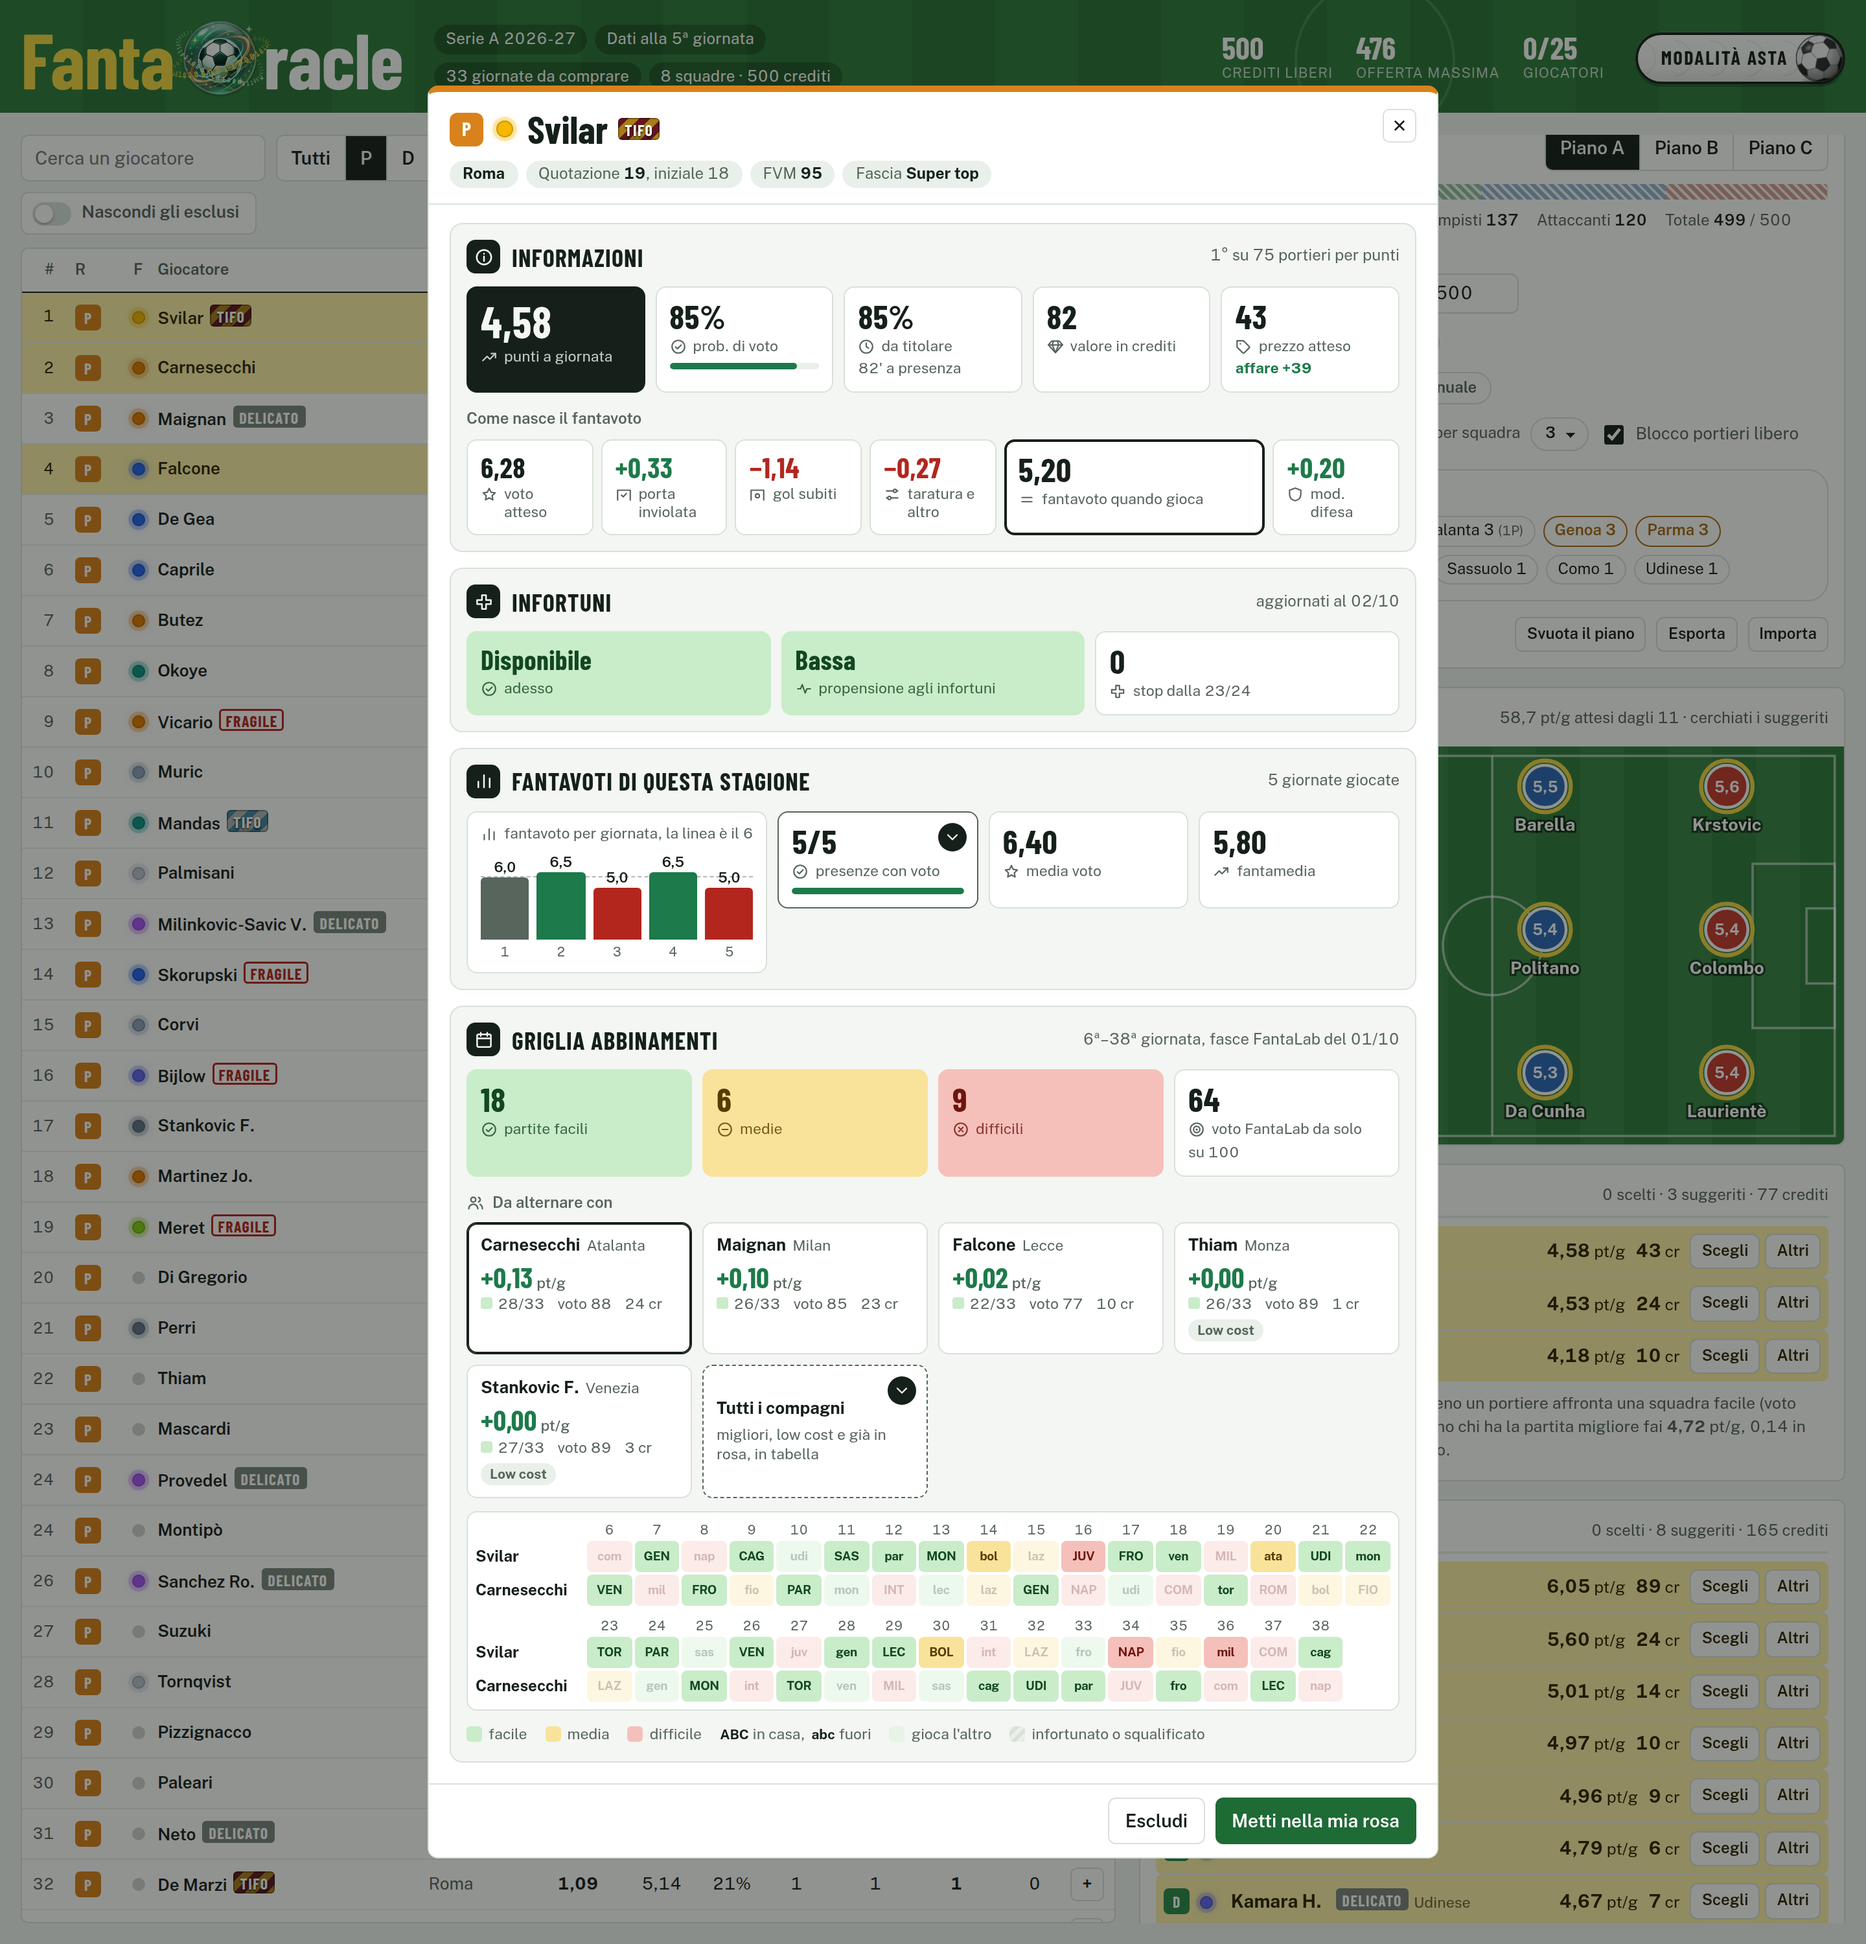
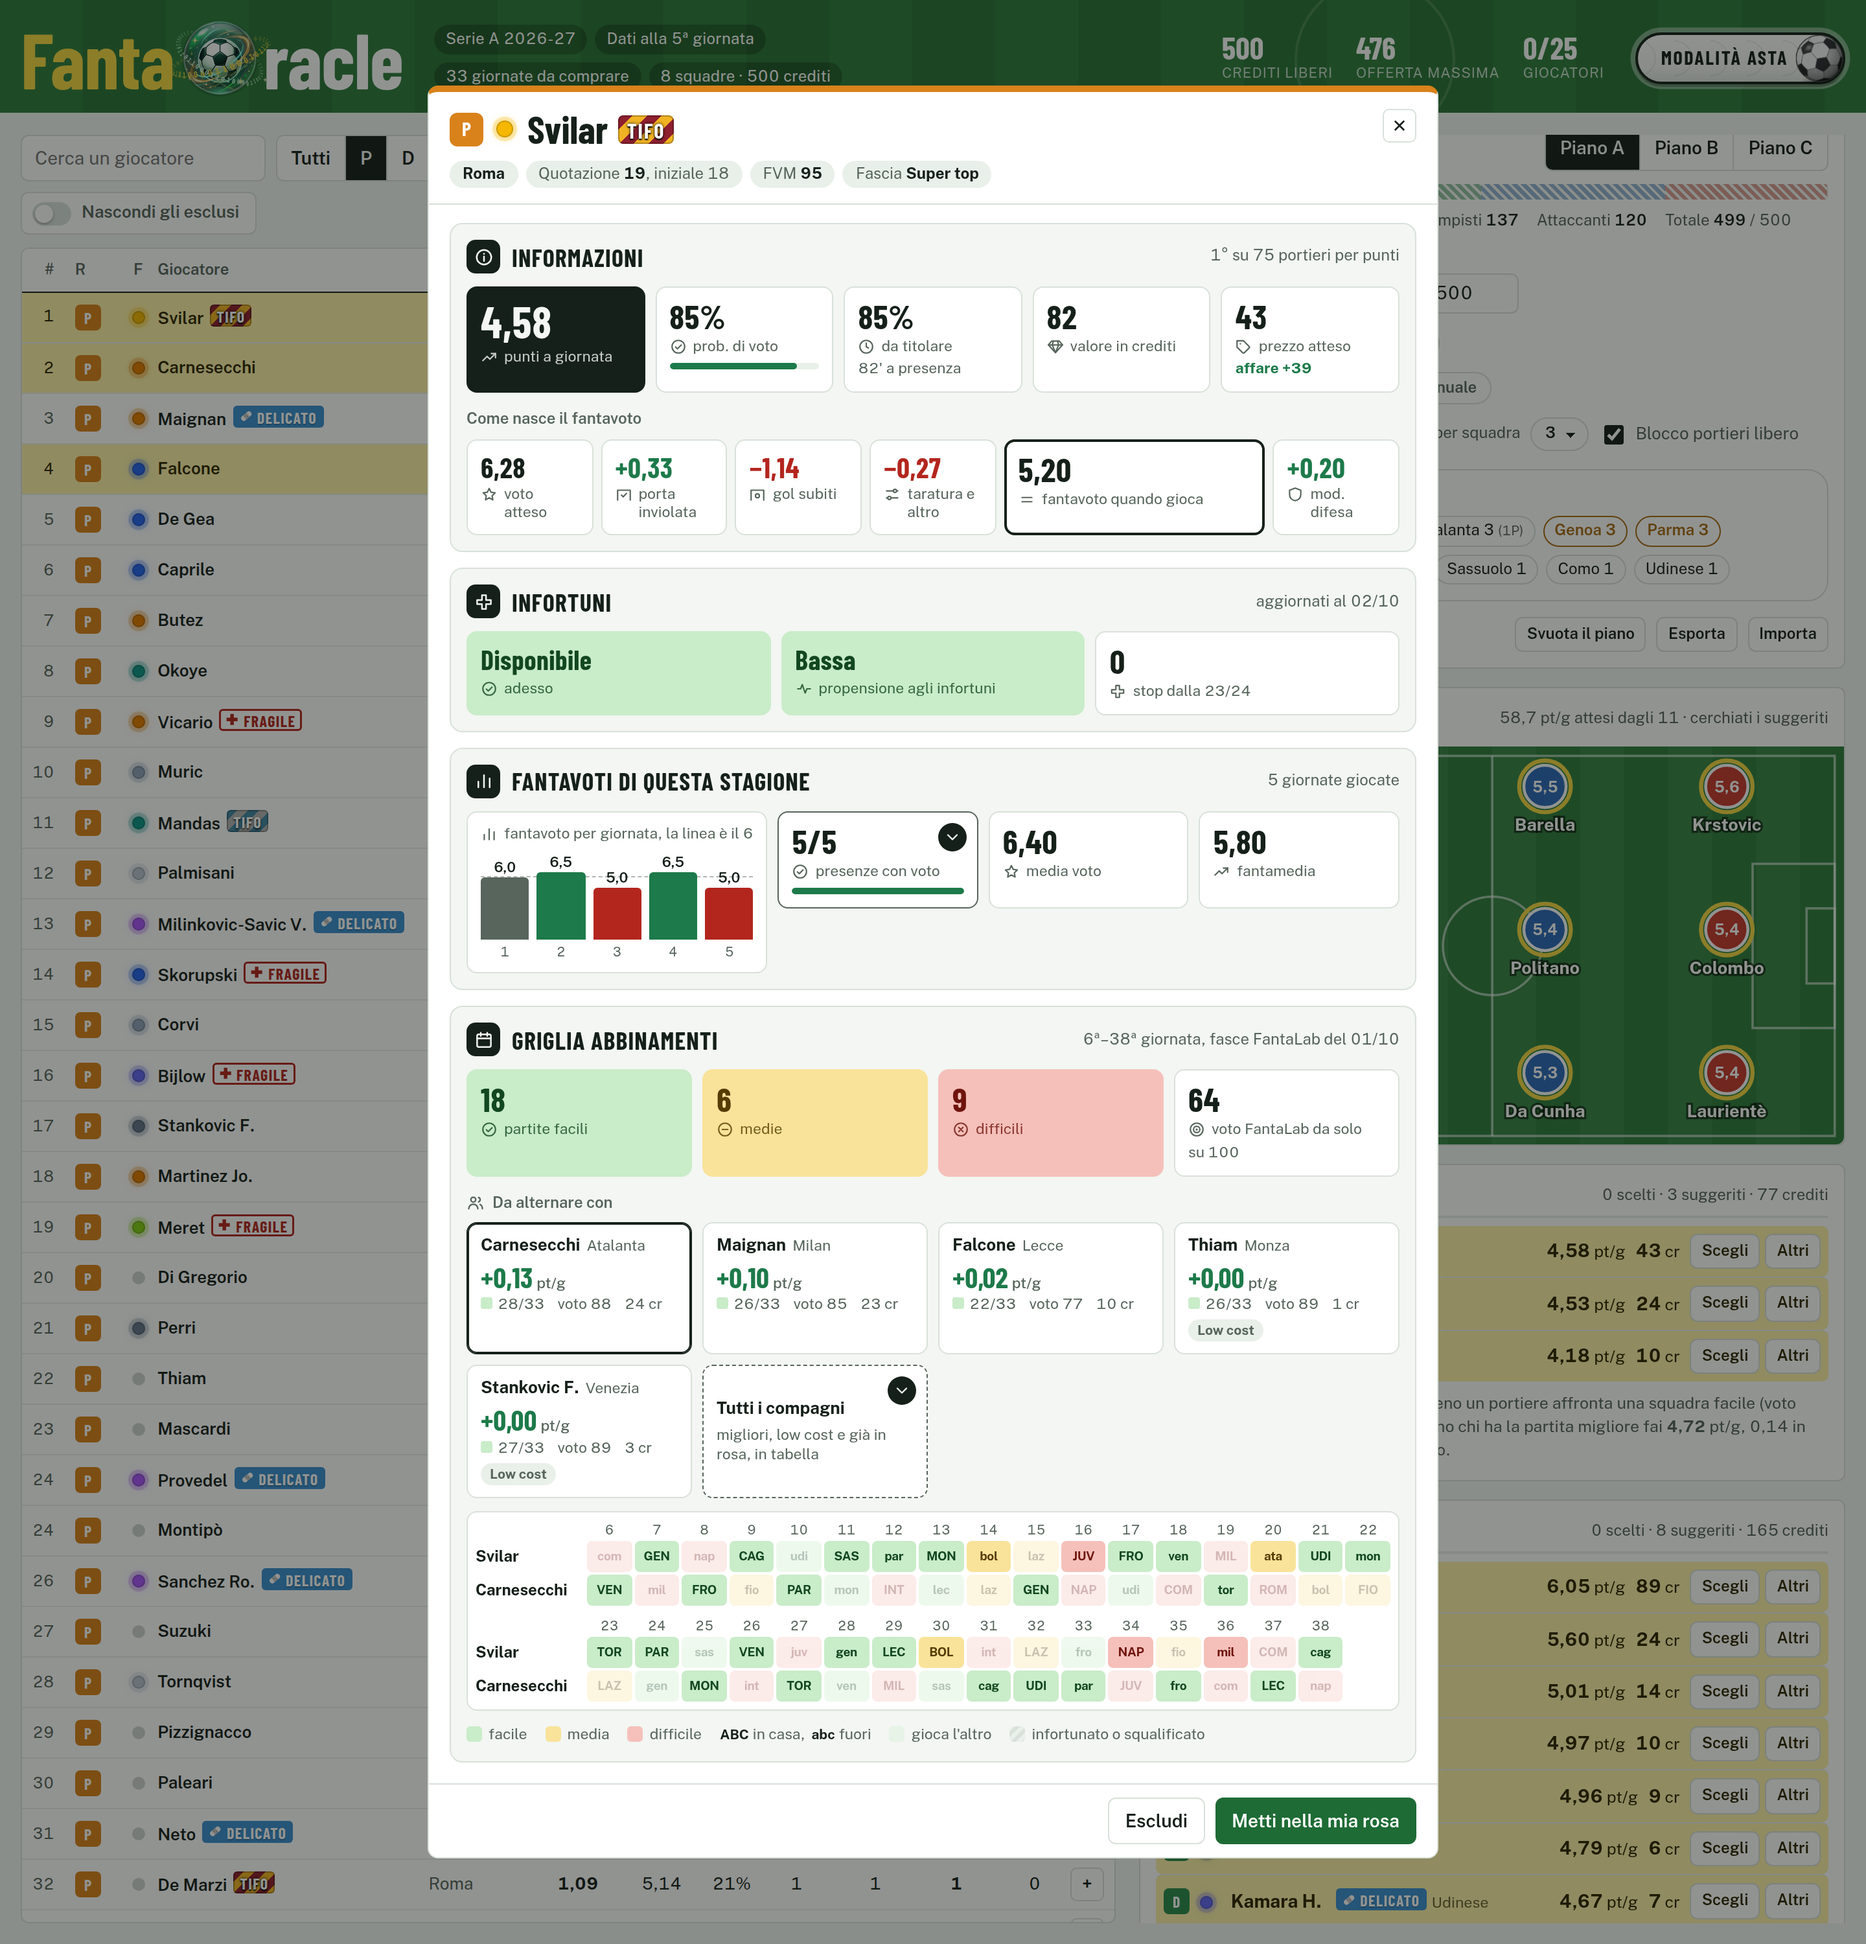
Etichette: velo solo dove serve, croce su FRAGILE, cerotto e celeste su DELICATO, piu' grandi nella scheda
Il velo scuro sulle strisce del tifo ora c'e' solo se una striscia e' troppo
chiara per la scritta bianca (contrasto WCAG sotto 1,7: bianco, giallo); Roma,
Inter, Milan e le altre tengono i colori pieni.
FRAGILE ha una croce rossa davanti, DELICATO un cerotto bianco su fondo celeste
al posto del grigio. Le misure delle etichette sono in em: nella scheda del
giocatore crescono a 16px insieme al nome.

Claude-Session: https://claude.ai/code/session_01FBeLdg3Zut88sEP1f7QNub

diff --git a/web/tool.css b/web/tool.css
@@ -233,18 +233,23 @@ td.big { font-weight: 700; }
 /* Etichette come bollini da tabellone: font condensato, pieni. Chi e' fuori ha la chiave scura
    (OUT, SQ) e accanto il rientro; il tifo porta le strisce coi colori della squadra (--t1, --t2). */
 .tag { display: inline-flex; align-items: center; font: 700 12px/1 var(--font-display); letter-spacing: 0.06em; text-transform: uppercase;
-  padding: 3px 5px 2px; border-radius: 3px; margin-left: 5px; vertical-align: 1px; white-space: nowrap; overflow: hidden;
+  padding: 0.25em 0.42em 0.17em; border-radius: 0.25em; margin-left: 5px; vertical-align: 1px; white-space: nowrap; overflow: hidden;
   color: var(--ink-2); box-shadow: inset 0 0 0 1.5px currentColor; }
-.tag i { font-style: normal; margin: -3px 4px -2px -5px; padding: 3px 5px 2px; background: rgb(0 0 0 / 0.24); }
+.tag i { font-style: normal; margin: -0.25em 0.33em -0.17em -0.42em; padding: 0.25em 0.42em 0.17em; background: rgb(0 0 0 / 0.24); }
+.tag .segno { width: 0.85em; height: 0.85em; margin: -0.1em 0.3em 0 0; flex: none; fill: currentColor; }
+.tag.fragile .segno { fill: var(--bad); }
 .tag.rig { color: #fff; background: #2d68b8; box-shadow: none; }
-/* un velo scuro sulle strisce: le bianche (Lazio, Juve, Napoli...) restano chiare ma la scritta si legge */
-.tag.tifo { color: #fff; background: linear-gradient(rgb(0 0 0 / 0.3), rgb(0 0 0 / 0.3)), repeating-linear-gradient(135deg, var(--t1) 0 6px, var(--t2) 6px 12px);
-  box-shadow: inset 0 0 0 1px rgb(0 0 0 / 0.3); text-shadow: 0 1px 1.5px rgb(0 0 0 / 0.9); }
+/* le strisce coi colori pieni; il velo scuro solo dove una striscia e' troppo chiara per la scritta
+   bianca (classe .velo, decisa in tag() dal contrasto: Lazio, Juve, Napoli, Lecce...) */
+.tag.tifo { color: #fff; background: repeating-linear-gradient(135deg, var(--t1) 0 0.5em, var(--t2) 0.5em 1em);
+  box-shadow: inset 0 0 0 1px rgb(0 0 0 / 0.25); text-shadow: 0 0 2px rgb(0 0 0 / 0.9), 0 1px 1px #000; }
+.tag.tifo.velo { background: linear-gradient(rgb(0 0 0 / 0.3), rgb(0 0 0 / 0.3)), repeating-linear-gradient(135deg, var(--t1) 0 0.5em, var(--t2) 0.5em 1em);
+  text-shadow: 0 1px 1.5px rgb(0 0 0 / 0.9); }
 .tag.uno { color: inherit; opacity: 0.8; }
 .tag.out { color: #fff; background: #c5302a; box-shadow: none; cursor: help; }
 .tag.dubbio, .tag.diff { color: #3a2a00; background: #f7c948; box-shadow: none; cursor: help; }
 .tag.fragile { color: var(--bad); cursor: help; }
-.tag.rischio { color: #fff; background: #7a867e; box-shadow: none; cursor: help; }
+.tag.rischio { color: #fff; background: #3b8fd0; box-shadow: none; cursor: help; text-shadow: 0 1px 1px rgb(0 0 0 / 0.25); }
 td.act { display: flex; gap: 4px; justify-content: flex-end; }
 .ic { width: 26px; height: 26px; display: inline-grid; place-items: center; border: 1px solid var(--rule); background: var(--sheet); border-radius: 5px; font-weight: 700; line-height: 1; }
 .ic:hover { border-color: var(--ink); }
@@ -364,7 +369,8 @@ table.compagni button[aria-pressed="true"] { background: var(--ink); color: var(
 .sch-chi { min-width: 0; }
 :is(.scheda, .chiamato) h3 { font-size: 30px; display: flex; flex-wrap: wrap; align-items: center; gap: 4px 8px; }
 :is(.scheda, .chiamato) h3 .role { width: 26px; height: 26px; font-size: 15px; border-radius: 6px; }
-:is(.scheda, .chiamato) h3 .tag { margin-left: 0; }
+/* nella scheda il nome e' a 30px: le etichette crescono con lui (le misure sono in em) */
+:is(.scheda, .chiamato) h3 .tag { margin-left: 0; font-size: 16px; }
 :is(.scheda, .chiamato) h3 .fd { margin: 0 3px 0 2px; vertical-align: 0; }
 .sch-meta { display: flex; flex-wrap: wrap; align-items: center; gap: 6px; margin-top: 8px; }
 .sch-meta .mt { font-size: 12px; line-height: 1.45; padding: 2px 10px; border-radius: 999px; background: var(--tint); color: var(--ink-2); white-space: nowrap; }
@@ -829,7 +835,7 @@ h3 .fd { width: 13px; height: 13px; margin: 0 8px 0 4px; vertical-align: 5px; }
   .boxes.merc-box.gen { grid-template-columns: repeat(3, minmax(0, 1fr)); }
   .merc-box .box.ora { grid-column: 1 / -1; }
   table.sq td, table.sq th { padding: 6px 4px; }
-  table.sq .tag { margin-left: 3px; padding: 1px 3px; }
+  table.sq .tag { margin-left: 3px; }
   .occ { grid-template-columns: 22px minmax(0, 1fr) auto; }
   .occ .num { grid-column: 2 / -1; grid-row: 2; text-align: left; white-space: normal; }
 }

diff --git a/web/tool.js b/web/tool.js
@@ -622,6 +622,13 @@ function titoloFr(g) {
     `; ~${fmt(f.gg, 0)} giorni e ~${fmt(f.pp, 0)} partite perse a stagione`;
 }
 
+// I segni dentro le etichette della propensione: una croce rossa per i fragili, un cerotto
+// bianco per i delicati. Prendono il colore del testo (currentColor) e la sua altezza.
+const SEGNO = {
+  croce: '<svg class="segno" viewBox="0 0 12 12" aria-hidden="true"><path d="M4.4 1h3.2v3.4H11v3.2H7.6V11H4.4V7.6H1V4.4h3.4z"/></svg>',
+  cerotto: '<svg class="segno" viewBox="0 0 12 12" aria-hidden="true"><g transform="rotate(-40 6 6)"><rect x="0.6" y="3.6" width="10.8" height="4.8" rx="2.4"/>' +
+    '<rect x="4" y="3.6" width="4" height="4.8" fill="rgb(0 0 0 / 0.22)"/><circle cx="5.2" cy="5.2" r=".45" fill="rgb(0 0 0 / 0.35)"/><circle cx="6.8" cy="6.8" r=".45" fill="rgb(0 0 0 / 0.35)"/></g></svg>',
+};
 function tagSalute(g, senzaDubbio = false) {
   let t = "";
   if (g.inf && !(senzaDubbio && !fuori(g) && g.inf.t !== "diffidato")) {
@@ -634,8 +641,8 @@ function tagSalute(g, senzaDubbio = false) {
     const cls = out ? "out" : i.t === "diffidato" ? "diff" : "dubbio";
     t += `<span class="tag ${cls}" title="${esc(titoloInf(g))}">${testo}</span>`;
   }
-  if (fragile(g)) t += `<span class="tag fragile" title="${esc(titoloFr(g))}">FRAGILE</span>`;
-  else if (aRischio(g)) t += `<span class="tag rischio" title="${esc(titoloFr(g))}">DELICATO</span>`;
+  if (fragile(g)) t += `<span class="tag fragile" title="${esc(titoloFr(g))}">${SEGNO.croce}FRAGILE</span>`;
+  else if (aRischio(g)) t += `<span class="tag rischio" title="${esc(titoloFr(g))}">${SEGNO.cerotto}DELICATO</span>`;
   return t;
 }
 
@@ -659,12 +666,19 @@ const COLORI_SQ = {
   roma: ["#8e1f2f", "#f0b323"], sassuolo: ["#00a752", "#111111"], torino: ["#7f1d0b", "#ffffff"],
   udinese: ["#111111", "#ffffff"], venezia: ["#f47920", "#00843d"],
 };
+// Contrasto (WCAG) fra la scritta bianca e un colore: sotto 1,7 la striscia e' troppo chiara
+// (bianco, giallo) e l'etichetta prende il velo scuro; le altre restano coi colori pieni.
+function contrastoBianco(hex) {
+  const lin = (i) => { const c = parseInt(hex.slice(i, i + 2), 16) / 255; return c <= 0.03928 ? c / 12.92 : ((c + 0.055) / 1.055) ** 2.4; };
+  return 1.05 / (0.2126 * lin(1) + 0.7152 * lin(3) + 0.0722 * lin(5) + 0.05);
+}
 function tag(g, senzaDubbio = false) {
   let t = "";
   if ((g.qrig || 0) >= 0.4) t += '<span class="tag rig" title="Rigorista: calcia la maggior parte dei rigori della squadra">RIG</span>';
   if ((g.tifo || 1) > 1) {
     const [c1, c2] = COLORI_SQ[g.sq] || ["#8a6a12", "#f2c200"];
-    t += `<span class="tag tifo" style="--t1:${c1};--t2:${c2}" title="Prezzo atteso maggiorato: ${esc(nomeSq(g.sq))} ha molti tifosi in lega">TIFO</span>`;
+    const velo = Math.min(contrastoBianco(c1), contrastoBianco(c2)) < 1.7 ? " velo" : "";
+    t += `<span class="tag tifo${velo}" style="--t1:${c1};--t2:${c2}" title="Prezzo atteso maggiorato: ${esc(nomeSq(g.sq))} ha molti tifosi in lega">TIFO</span>`;
   }
   return t + tagSalute(g, senzaDubbio);
 }

diff --git a/web/index.html b/web/index.html
@@ -10,7 +10,7 @@
 <link rel="preconnect" href="https://fonts.gstatic.com" crossorigin>
 <link rel="stylesheet" href="https://fonts.googleapis.com/css2?family=Barlow+Condensed:wght@500;600;700&family=Public+Sans:wght@400;500;600;700&display=swap">
 <link rel="icon" type="image/png" href="logo.png">
-<link rel="stylesheet" href="tool.css?v=23c5e9d3d5">
+<link rel="stylesheet" href="tool.css?v=0c83e00ee2">
 <div class="app">
   <header class="top">
     <div class="marca">
@@ -115,7 +115,7 @@
 
 <div class="overlay" id="overlay" hidden></div>
 
-<script src="tool.js?v=e59c11fb2d"></script>
+<script src="tool.js?v=7379051798"></script>
 
 </body>
 </html>

diff --git a/README.md b/README.md
@@ -35,9 +35,9 @@ I 599 giocatori delle 20 squadre di Serie A, ordinati per punti attesi. Filtri p
 | **Prezzo** | Quanto costerà presumibilmente nella nostra asta |
 | **Affare** | Valore meno prezzo: più è alto, più conviene |
 
-Accanto al nome trovi dei bollini, come quelli di un tabellone: **RIG** in blu per i rigoristi, **TIFO** a strisce con i colori della squadra per i giocatori che in lega costeranno un po' di più perché qualcuno ci è affezionato (giallorosso per la Roma, biancoceleste per la Lazio).
+Accanto al nome trovi dei bollini, come quelli di un tabellone: **RIG** in blu per i rigoristi, **TIFO** a strisce con i colori della squadra per i giocatori che in lega costeranno un po' di più perché qualcuno ci è affezionato (giallorosso per la Roma, biancoceleste per la Lazio). Nella scheda del giocatore i bollini crescono insieme al nome.
 
-🚑 Vedi anche chi è **fuori**, in rosso pieno: **OUT | 8ª** se salta le prossime giornate e rientra alla 8ª (con la data, passandoci sopra), **OUT | STAGIONE** se non torna più, **SQ | 2 G** se è squalificato per due giornate. Chi è solo in dubbio per la prossima non ha bollino nel listone: lo trovi nella sua scheda, in giallo. E chi **si fa male spesso**: **FRAGILE**, bordato di rosso, se negli ultimi tre anni ha perso almeno un quarto di stagione a forza di stop, **DELICATO**, in grigio, se ci va vicino. Un filtro ti lascia solo i disponibili, o solo i disponibili non fragili. Le giornate che un infortunato salta sono già tolte dai suoi punti attesi e dal suo valore; la fragilità invece è un avviso, la decisione è tua.
+🚑 Vedi anche chi è **fuori**, in rosso pieno: **OUT | 8ª** se salta le prossime giornate e rientra alla 8ª (con la data, passandoci sopra), **OUT | STAGIONE** se non torna più, **SQ | 2 G** se è squalificato per due giornate. Chi è solo in dubbio per la prossima non ha bollino nel listone: lo trovi nella sua scheda, in giallo. E chi **si fa male spesso**: **✚ FRAGILE**, bordato di rosso con una croce, se negli ultimi tre anni ha perso almeno un quarto di stagione a forza di stop, **DELICATO**, in celeste con un cerotto, se ci va vicino. Un filtro ti lascia solo i disponibili, o solo i disponibili non fragili. Le giornate che un infortunato salta sono già tolte dai suoi punti attesi e dal suo valore; la fragilità invece è un avviso, la decisione è tua.
 
 ### 2. Apri la scheda di un giocatore
 

diff --git a/specifiche.md b/specifiche.md
@@ -72,10 +72,13 @@ rosso pieno chi salta almeno una delle prossime giornate, con la chiave scura e
 accanto il rientro (`OUT | 8ª`: rientro alla 8ª, `OUT | STAGIONE` se torna dopo
 l'ultima, `SQ | 2 G` per una squalifica di due giornate); in giallo chi è in
 dubbio per la prossima o ha un acciacco senza data (`? DUBBIO`, `DIFF.`). Poi la
-propensione dallo storico: `FRAGILE` bordato di rosso (circa uno su sette) e,
-più discreto, `DELICATO` in grigio (uno su quattro). `RIG` è blu, `TIFO` ha le
-strisce con i colori sociali della squadra (una tabella per tutte le venti, così
-vale per qualsiasi squadra messa nel tifo in `config/league.yaml`). È un giudizio nostro sullo storico, diverso dalla fascia "A rischio"
+propensione dallo storico: `FRAGILE` bordato di rosso con una croce rossa (circa
+uno su sette) e, più discreto, `DELICATO` in celeste con un cerotto bianco (uno
+su quattro). `RIG` è blu, `TIFO` ha le strisce con i colori sociali della squadra
+(una tabella per tutte le venti, così vale per qualsiasi squadra messa nel tifo
+in `config/league.yaml`); un velo scuro le copre solo se una striscia è troppo
+chiara per la scritta bianca (contrasto sotto 1,7: bianco, giallo). Le misure
+sono in em, così nella scheda del giocatore i bollini crescono con il nome. È un giudizio nostro sullo storico, diverso dalla fascia "A rischio"
 della guida SOS Fanta. Passandoci sopra si leggono motivo, data di rientro e i numeri che
 hanno deciso il giudizio. Un filtro tiene solo i disponibili, i disponibili non
 fragili, gli indisponibili o i fragili e delicati. Nella scheda, la sezione Infortuni dice
